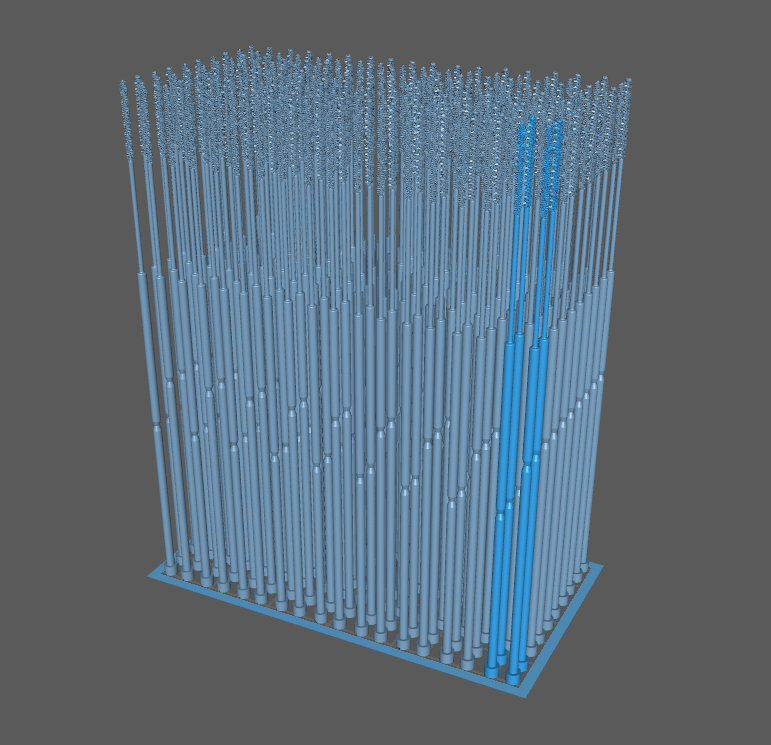
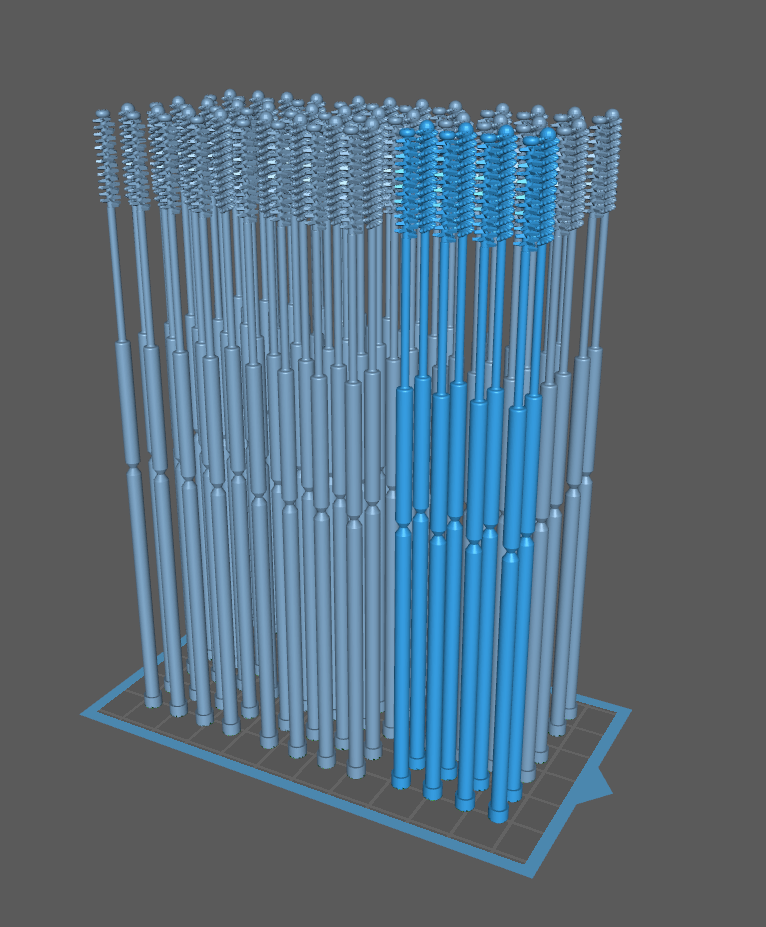
Updates Fabrication docs.

diff --git a/README.md b/README.md
@@ -161,18 +161,18 @@ impresoras 3D se listan a continuación:
 ### Creality LD-002R
 
 - **Tamaño de cama de impresión:** *120 x 68 x 160mm*.
-- **Tamaño del lote:** *18x10*.
-- **Cantidad de hisopos producidos:** *180*.
-- **Recina requerida:** *96.7ml*.
-- **Tiempo de impresión:** *13h0m54s*.
+- **Tamaño del lote:** *12x16*.
+- **Cantidad de hisopos producidos:** *72*.
+- **Recina requerida:** *80.2ml*.
+- **Tiempo de impresión:** *10h38m11s*.
 
 ### Anycubic Photon
 
 - **Tamaño de cama de impresión:** *120 × 68 × 150mm*.
-- **Tamaño del lote:** *18x10*.
-- **Cantidad de hisopos producidos:** *180*.
-- **Recina requerida:** *96.7ml*.
-- **Tiempo de impresión:** *12h6m50s*.
+- **Tamaño del lote:** *12x16*.
+- **Cantidad de hisopos producidos:** *72*.
+- **Recina requerida:** *80.2ml*.
+- **Tiempo de impresión:** *10h38m11s*.
 
 <p align="center">
     <img src="doc/images/slicer-grid.png" alt="Batch of OpenSwabs">

diff --git a/README.en.md b/README.en.md
@@ -153,18 +153,18 @@ some 3D printers:
 ### Creality LD-002R
 
 - **Printing bed size:** *120 x 68 x 160mm*.
-- **Batch size:** *18x10*.
-- **Swab yield:** *180*.
-- **Resin required:** *96.7ml*.
-- **Printing time:** *13h0m54s*.
+- **Batch size:** *12x16*.
+- **Swab yield:** *72*.
+- **Resin required:** *80.2ml*.
+- **Printing time:** *10h38m11s*.
 
 ### Anycubic Photon
 
 - **Printing bed size:** *120 × 68 × 150mm*.
-- **Batch size:** *18x10*.
-- **Swab yield:** *180*.
-- **Resin required:** *96.7ml*.
-- **Printing time:** *12h6m50s*.
+- **Batch size:** *12x6*.
+- **Swab yield:** *72*.
+- **Resin required:** *80.2ml*.
+- **Printing time:** *10h38m11s*.
 
 <p align="center">
     <img src="doc/images/slicer-grid.png" alt="Batch of OpenSwabs">
